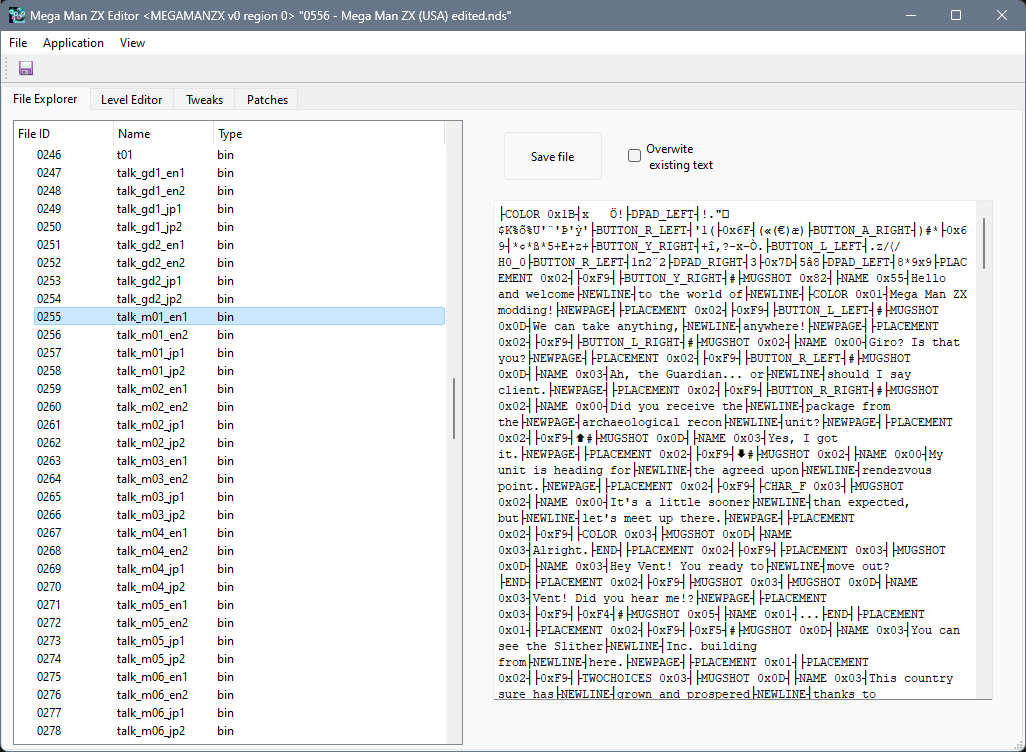
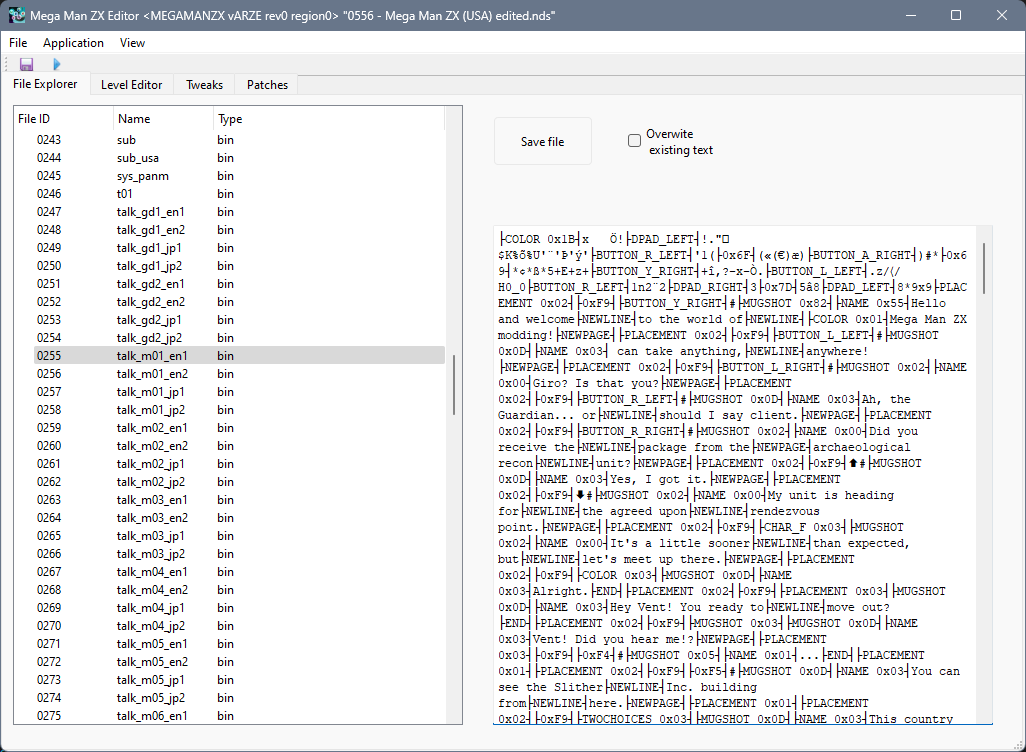
Updated Window Title format
- When opening ROM window title shows more info
- updated showcase image because of ui changes

diff --git a/MME_NDS.py b/MME_NDS.py
@@ -3,7 +3,7 @@ import PyQt6.QtGui, PyQt6.QtWidgets, PyQt6.QtCore
 import sys, os, platform
 #import logging, time, random
 import ndspy
-import ndspy.rom, ndspy.code#, ndspy.fnt
+import ndspy.rom, ndspy.code#, ndspy.soundArchive
 import library.dataconverter, library.patchdata, library.init_readwrite
 
 class ThreadSignals(PyQt6.QtCore.QObject):
@@ -376,7 +376,7 @@ class MainWindow(PyQt6.QtWidgets.QMainWindow):
 
         self.dialog_settings = PyQt6.QtWidgets.QDialog(self)
         self.dialog_settings.setWindowTitle("Settings")
-        self.dialog_settings.setContentsMargins(5, 5, 5, 5)
+        self.dialog_settings.resize(100, 50)
         self.checkbox_theme = PyQt6.QtWidgets.QCheckBox("Dark Theme", self.dialog_settings)
         self.checkbox_theme.move(15, 0)
         self.checkbox_theme.clicked.connect(lambda: self.switch_theme())
@@ -676,7 +676,7 @@ class MainWindow(PyQt6.QtWidgets.QMainWindow):
             self.arm9 = self.rom.loadArm9()
             self.arm7 = self.rom.loadArm7()
             self.temp_path = f"{os.path.curdir}\\temp\\{self.romToEdit_name+self.romToEdit_ext}"
-            self.setWindowTitle("Mega Man ZX Editor" + " <" + self.rom.name.decode() + " v" + str(self.rom.version) + " region " + str(self.rom.region) + ">" + " \"" + self.romToEdit_name + self.romToEdit_ext + "\"")
+            self.setWindowTitle("Mega Man ZX Editor" + " <" + self.rom.name.decode() + " v" + self.rom.idCode.decode("utf-8") + " rev" + str(self.rom.version) + " region" + str(self.rom.region) + ">" + " \"" + self.romToEdit_name + self.romToEdit_ext + "\"")
             #print(self.rom.filenames)
             self.tree_patches.clear()
             patches = []

diff --git a/README.md b/README.md
@@ -20,10 +20,9 @@ For now, I'm messing around with the game to find useful tweaks. I'm also making
 - Graphics Viewer(WIP)
 ### To do
 - (Dialogue text converter)Find use of special values 0xF4, 0xF5, 0xF7, and 0xF9
-- Graphics converter(feature complete)
 - Graphics Editor(saving, exporting, and importing)
 - Find actual patches for the game to add to the editor's "patches" tab
-- Find patches that are helpful for testing purposes
+- Find patches and tweaks that are helpful for testing purposes
 - OAM Editor*
 - Sound/Music Editor*
 - Movie Editor*
